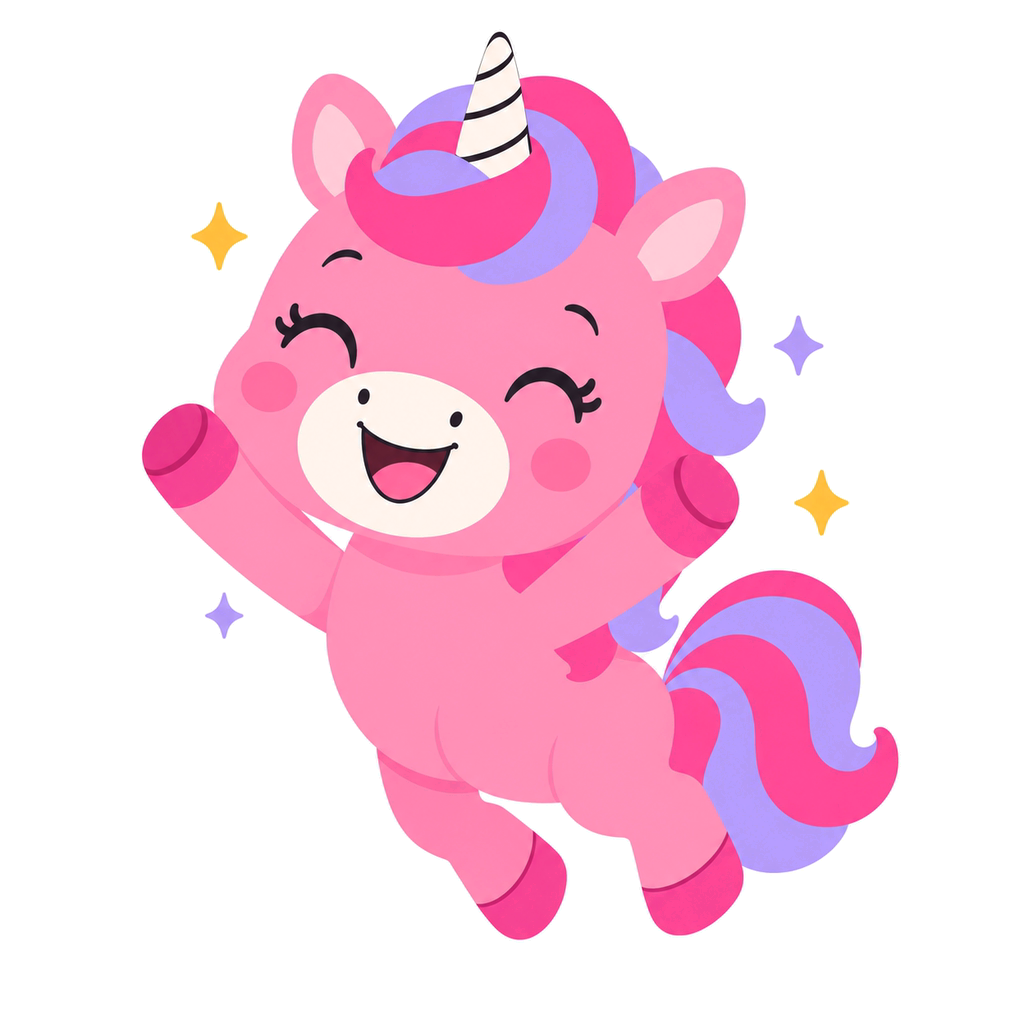
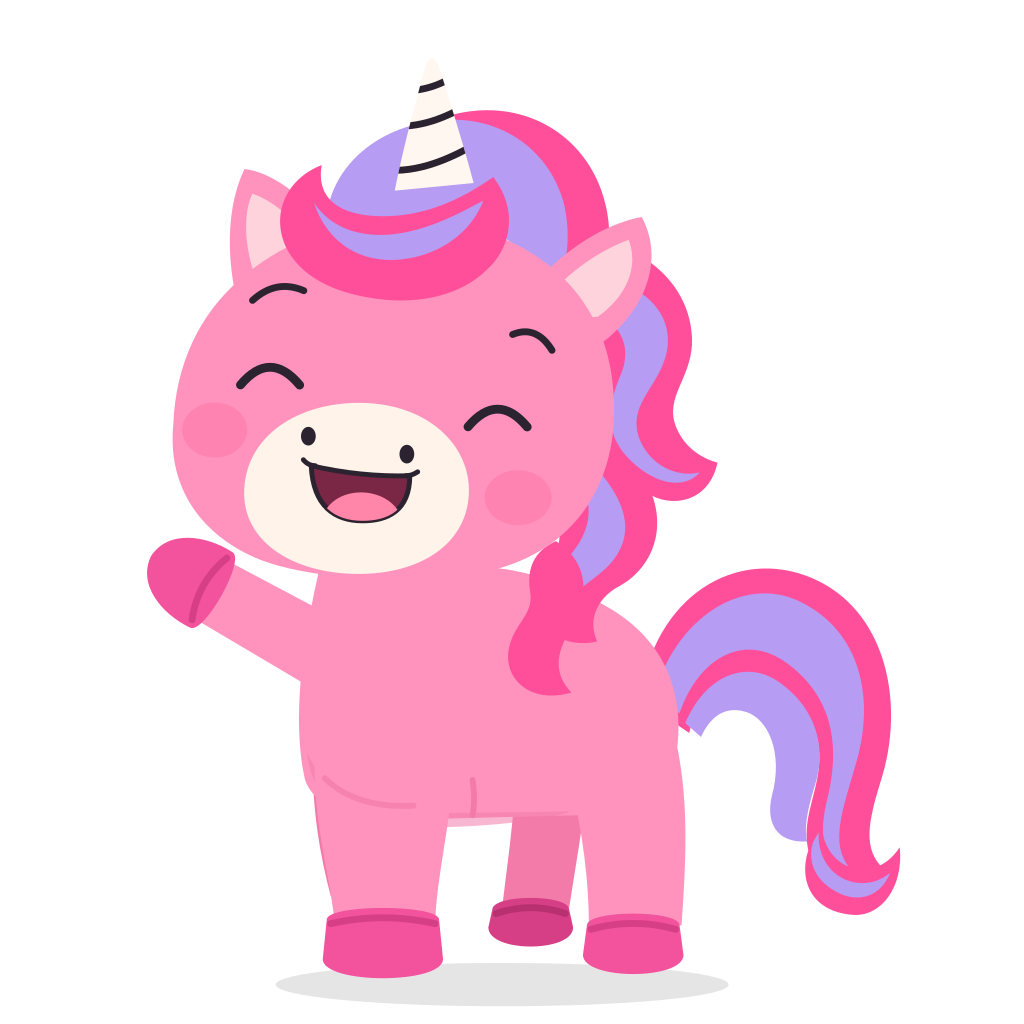
Fix Sparkle's ear and hair joints and share one character across the app

Changed region(s): [[0.125, 0.0312, 0.875, 1.0], [0.7812, 0.4688, 0.8438, 0.5312]]

diff --git a/src/sdk/puppet/Sparkle.tsx b/src/sdk/puppet/Sparkle.tsx
@@ -4,9 +4,9 @@
 //   <SparklePuppet ref={sparkle} height="min(30vh, 260px)" />
 //   sparkle.current?.play('cheer')
 //
-// Drawn in the same coordinates as the mascot art (art/source/mascot/wave.png, 1024 px square) so it can be traced and
-// compared side by side: flat fills, no outlines, a big round head with a small cream muzzle, a pink-and-lavender swirl
-// around the horn, and a wavy striped mane and tail.
+// The canonical live Sparkle. Mascot wraps this drawing; art/source/mascot/*.png are exported from it.
+// Flat fills, no outlines, a big round head with a cream muzzle, a pink-and-lavender forelock,
+// and continuous striped mane and tail silhouettes. Keep ear/hair roots overlapped inside the head.
 import { forwardRef, useId, useRef, type CSSProperties } from 'react'
 import { bell, setA, setT, show, span, spring, usePuppet, wobble, type PuppetHandle } from './core'
 
@@ -22,6 +22,8 @@ export interface SparklePuppetProps {
   flip?: boolean
   /** Turn her head a little toward something: -1 (her left/screen left) to 1 (screen right). */
   lookToward?: number
+  /** Resting expression used by the legacy Mascot adapter; actions still take precedence. */
+  mood?: 'wave' | 'cheer' | 'think'
 }
 
 type Part =
@@ -45,17 +47,8 @@ const EYES: [number, number, number][] = [
   [294, 362, -1],
   [525, 404, 1],
 ]
-// The tail is four ribbons of the same curve, each shifted down and back a little: pink and lavender stripes like the art.
-// The curve comes in two pieces joined at TAIL_JOINT so the curly end can swing after the base.
-const TAIL_JOINT: [number, number] = [166, -44]
-const TAIL_BASE = 'M-24 40 C-8 -70 106 -112 166 -44'
-const TAIL_TIP = 'M0 0 C34 40 38 104 14 150'
-const TAIL_BANDS: [number, number, string][] = [
-  [0, 0, HOT],
-  [-18, 26, LAV],
-  [-36, 50, HOT],
-  [-52, 72, LAV],
-]
+// A continuous tail with inset stripes, and an overlapping curled tip for follow-through.
+const TAIL_JOINT: [number, number] = [210, 200]
 // Motion distances were tuned in the old 440-unit drawing; this one is about 1.9 times bigger.
 const K = 1.9
 
@@ -69,7 +62,7 @@ function Hoof({ x, y, w, h, dark }: { x: number; y: number; w: number; h: number
   )
 }
 
-export const SparklePuppet = forwardRef<PuppetHandle, SparklePuppetProps>(function SparklePuppet({ height, style, pose = 'stand', flip, lookToward = 0 }, ref) {
+export const SparklePuppet = forwardRef<PuppetHandle, SparklePuppetProps>(function SparklePuppet({ height, style, pose = 'stand', flip, lookToward = 0, mood = 'wave' }, ref) {
   const clip = useId().replace(/:/g, '')
   const springs = useRef({ mane: spring(120, 8), fore: spring(160, 9), tail: spring(90, 7), tip: spring(70, 6), ear: spring(200, 10) })
   const prev = useRef({ y: 0, rot: 0 })
@@ -96,12 +89,13 @@ export const SparklePuppet = forwardRef<PuppetHandle, SparklePuppetProps>(functi
       let headY = breathe * 1.5 * K
       let arm = -61 + Math.sin(t * 1.7) * 3 // raised front hoof, resting wave
       let leg = 0
-      let happy = false
+      const resting = a ? 'wave' : mood
+      let happy = resting === 'cheer'
       let mouthOpen = 0.62 + f.mouth * 0.7
-      let closedSmile = false
-      let lookUp = 0
+      let closedSmile = resting === 'think' && !f.talking
+      let lookUp = resting === 'think' ? 0.6 : 0
       let sparkle = 0
-      let thinking = false
+      let thinking = resting === 'think'
 
       if (a === 'hop' || a === 'cheer') {
         const crouch = bell(span(q, 0, 0.22))
@@ -153,18 +147,19 @@ export const SparklePuppet = forwardRef<PuppetHandle, SparklePuppetProps>(functi
       const foreA = s.fore.step(vy * 0.02 - vr * 0.08, f.dt)
       const tailA = s.tail.step(-vy * 0.045 + Math.sin(t * 1.6) * 6, f.dt)
       const tipA = s.tip.step(tailA * 0.9 + Math.sin(t * 1.6 - 0.8) * 5, f.dt)
-      const earA = s.ear.step(-vy * 0.02, f.dt)
+      // Keep roots buried in the head even at the strongest hop/ear twitch.
+      const earA = Math.max(-10, Math.min(10, s.ear.step(-vy * 0.02, f.dt)))
       const twitch = t % 4.7 < 0.2 ? Math.sin(((t % 4.7) / 0.2) * Math.PI) * 14 : 0
 
       const [fx, fy] = FEET
       setT(p.root, `translate(0 ${-lift}) translate(${fx} ${fy}) rotate(${rot}) scale(${sx} ${sy}) translate(${-fx} ${-fy})`)
       setT(p.body, `translate(0 ${breathe * -1.5})`)
       setT(p.head, `translate(0 ${headY}) rotate(${headRot} ${NECK[0]} ${NECK[1]})`)
-      setT(p.earL, `translate(314 206) rotate(${-4 + earA - twitch * 0.4})`)
-      setT(p.earR, `translate(622 274) rotate(${4 - earA + twitch})`)
-      setT(p.forelock, `rotate(${foreA} 450 200)`)
-      setT(p.foreBack, `rotate(${foreA * 0.6} 450 200)`)
-      setT(p.maneBack, `rotate(${maneA} 610 250)`)
+      setT(p.earL, `translate(318 266) rotate(${-4 + earA - twitch * 0.4})`)
+      setT(p.earR, `translate(584 302) rotate(${4 - earA + twitch})`)
+      setT(p.forelock, `rotate(${Math.max(-9, Math.min(9, foreA))} 450 232)`)
+      setT(p.foreBack, `rotate(${Math.max(-5, Math.min(5, foreA * 0.6))} 450 232)`)
+      setT(p.maneBack, `rotate(${Math.max(-12, Math.min(12, maneA))} 610 310)`)
       setT(p.tail, `translate(700 646) rotate(${tailA})`)
       setT(p.tailTip, `translate(${TAIL_JOINT[0]} ${TAIL_JOINT[1]}) rotate(${tipA - tailA * 0.3})`)
       setT(p.arm, `translate(362 650) rotate(${arm})`)
@@ -203,6 +198,7 @@ export const SparklePuppet = forwardRef<PuppetHandle, SparklePuppetProps>(functi
 
   return (
     <svg
+      data-sparkle="puppet"
       ref={svg}
       viewBox="110 22 836 960"
       style={{ height, width: 'auto', aspectRatio: '836 / 960', overflow: 'visible', display: 'block', transform: flip ? 'scaleX(-1)' : undefined, ...style }}
@@ -221,16 +217,12 @@ export const SparklePuppet = forwardRef<PuppetHandle, SparklePuppetProps>(functi
       <g ref={part('root')}>
         {/* Tail: striped pink and lavender, in two linked pieces so the curly end swings after the base. */}
         <g ref={part('tail')} transform="translate(700 646)">
-          {TAIL_BANDS.map(([dx, dy, c], i) => (
-            <path key={i} d={TAIL_BASE} transform={`translate(${dx} ${dy})`} fill="none" stroke={c} strokeWidth="74" strokeLinecap="round" />
-          ))}
+          <path fill={HOT} d="M-30 44 C-16 -62 68 -112 144 -80 C220 -48 240 48 214 128 C202 168 196 196 218 216 C194 252 150 232 142 200 C132 164 154 136 152 98 C150 54 112 16 74 20 C46 22 28 44 20 78Z" />
+          <path fill={LAV} d="M-16 42 C4 -38 74 -84 132 -56 C194 -26 208 42 190 106 C176 156 162 190 184 216 C154 208 152 180 160 146 C176 82 160 36 118 6 C76 -24 30 0 10 58Z" />
+          <path fill={LAV} d="M16 68 C36 20 76 4 108 24 C148 50 160 92 148 130 C142 150 136 172 140 188 C108 190 98 168 104 142 C116 98 100 62 76 56 C54 50 40 64 32 82Z" />
           <g ref={part('tailTip')} transform={`translate(${TAIL_JOINT[0]} ${TAIL_JOINT[1]})`}>
-            {/* The end of the top ribbon flicks up and out. */}
-            <path fill={HOT} d="M-10 150 C20 186 72 180 88 140 C102 170 88 206 50 212 C18 216 -6 196 -10 150Z" />
-            {TAIL_BANDS.map(([dx, dy, c], i) => (
-              // Lower ribbons stop sooner, so only the top ones curl at the end.
-              <path key={i} d={TAIL_TIP} transform={`translate(${dx} ${dy})`} fill="none" stroke={c} strokeWidth={74 - i * 6} strokeLinecap="round" pathLength={1} strokeDasharray={`${1 - i * 0.2} 2`} />
-            ))}
+            <path fill={HOT} d="M-54 -44 C-60 -8 -38 16 -14 16 C4 16 16 6 24 -6 C28 34 4 66 -26 62 C-64 58 -78 30 -70 0Z" />
+            <path fill={LAV} d="M-58 -22 C-60 10 -38 30 -14 30 C-2 30 6 26 14 20 C4 44 -18 50 -38 40 C-62 28 -70 8 -64 -12Z" />
           </g>
         </g>
 
@@ -258,29 +250,30 @@ export const SparklePuppet = forwardRef<PuppetHandle, SparklePuppetProps>(functi
           <path d="M-36 -148 Q0 -162 36 -148" fill="none" stroke={HOOF_DARK} strokeWidth="7" strokeLinecap="round" />
         </g>
 
-        {/* Mane down the back of her neck and over her shoulder (swings) */}
-        <g ref={part('maneBack')}>
-          <path fill={HOT} d="M584 222 C656 208 724 262 716 336 C748 366 750 436 712 470 C730 504 712 548 666 556 C682 526 670 498 642 490 L596 300 Z" />
-          <path fill={LAV} d="M638 300 C700 304 748 352 744 410 C762 432 758 466 732 474 C738 454 728 442 712 446 C720 400 692 350 632 336 Z" />
-          <path fill={LAV} d="M596 462 C648 470 676 520 662 574 C654 602 624 618 598 608 C618 596 628 574 616 552 C604 532 588 514 596 462Z" />
-          <path fill={HOT} d="M556 534 C612 550 622 624 592 668 C576 692 544 696 522 686 C548 672 558 650 544 628 C526 604 522 564 556 534Z" />
-        </g>
         <g ref={part('head')}>
+          {/* One continuous mane silhouette; inset lavender ribbons follow the same waves.
+              The root overlaps the skull, and this whole assembly inherits the head transform. */}
+          <g ref={part('maneBack')}>
+            <path fill={HOT} d="M560 218 C650 206 724 256 722 328 C720 364 694 382 706 412 C718 442 748 448 748 448 C740 486 706 494 682 482 C696 522 678 558 648 574 C626 586 616 608 626 630 C594 638 562 618 562 590 C562 566 582 552 586 534 C594 508 572 494 578 468 C590 428 620 402 610 366 C602 334 574 314 560 218Z" />
+            <path fill={LAV} d="M616 258 C680 264 708 304 694 344 C684 374 658 390 668 422 C678 450 706 464 730 458 C712 478 680 468 656 442 C632 416 638 386 650 358 C664 324 642 298 610 292Z" />
+            <path fill={LAV} d="M614 442 C648 476 666 510 646 542 C630 568 600 572 598 600 C578 586 584 560 602 538 C624 510 620 480 604 468Z" />
+            <path fill={HOT} d="M584 528 C622 552 616 592 598 620 C584 642 582 664 600 682 C560 694 532 670 536 640 C540 612 562 604 558 580 C554 556 562 538 584 528Z" />
+          </g>
           {/* Swirl behind the horn: a lavender band over the top of her head, then pink falling down the right side. */}
           <g ref={part('foreBack')}>
             <path fill={HOT} d="M462 100 C540 70 616 110 634 186 C646 236 628 282 598 312 C600 270 590 232 566 204 C546 160 510 124 462 100Z" />
             <path fill={LAV} d="M350 208 C352 146 406 104 470 100 C530 96 578 132 592 186 C600 222 594 256 580 280 C566 240 534 214 494 206 Z" />
           </g>
-          <g ref={part('earL')} transform="translate(314 206) rotate(-4)">
-            <path fill={PINK} d="M-54 14 C-62 -40 -46 -92 -20 -114 C12 -102 42 -62 50 -4 Z" />
-            <path fill={EAR} d="M-36 0 C-42 -38 -32 -72 -18 -90 C2 -78 22 -48 26 -12 Z" />
+          <g data-sparkle-part="earL" ref={part('earL')} transform="translate(318 266) rotate(-4)">
+            <path fill={PINK} d="M-56 40 C-66 -12 -62 -78 -32 -122 C4 -112 40 -66 54 -18 L54 42 Z" />
+            <path fill={EAR} d="M-34 4 C-44 -28 -44 -72 -28 -96 C-4 -84 20 -52 28 -20 Z" />
           </g>
-          <g ref={part('earR')} transform="translate(622 274) rotate(4)">
-            <path fill={PINK} d="M-44 -6 C-24 -60 26 -100 76 -106 C92 -70 80 -18 40 26 Z" />
-            <path fill={EAR} d="M-20 -14 C-2 -52 34 -80 64 -88 C72 -60 62 -26 34 4 Z" />
+          <g data-sparkle-part="earR" ref={part('earR')} transform="translate(584 302) rotate(4)">
+            <path fill={PINK} d="M-48 34 C-42 -26 0 -96 54 -124 C86 -92 86 -42 56 4 L22 50 Z" />
+            <path fill={EAR} d="M-20 6 C-16 -32 18 -76 48 -98 C66 -74 62 -42 40 -14 Z" />
           </g>
           {/* Head */}
-          <path fill={PINK} d="M400 204 C522 190 632 252 642 372 C652 472 598 548 498 562 C430 572 332 568 280 546 C220 520 190 470 196 410 C198 350 222 298 264 262 C302 228 352 208 400 204Z" />
+          <path data-sparkle-part="scalp" fill={PINK} d="M400 204 C522 190 632 252 642 372 C652 472 598 548 498 562 C430 572 332 568 280 546 C220 520 190 470 196 410 C198 350 222 298 264 262 C302 228 352 208 400 204Z" />
           <ellipse cx="238" cy="416" rx="33" ry="28" fill={BLUSH} opacity="0.45" />
           <ellipse cx="546" cy="484" rx="34" ry="28" fill={BLUSH} opacity="0.45" />
           {/* Muzzle */}
@@ -318,13 +311,11 @@ export const SparklePuppet = forwardRef<PuppetHandle, SparklePuppetProps>(functi
             <path d="M416 106 Q456 110 504 78" fill="none" />
             <path d="M428 70 Q460 72 494 46" fill="none" />
           </g>
-          {/* Forelock swirl in front of the horn (swings): a thick pink curl from her left ear, under the horn, sweeping up
-              to the right, with a lavender band hugging it. */}
+          {/* Rounded forelock, rooted across the crown; a single lavender stripe follows
+              the pink curl instead of separate wedges that read as loose pieces of hair. */}
           <g ref={part('forelock')}>
-            <path fill={LAV} d="M436 236 C486 214 556 212 588 252 C604 272 604 296 592 312 C576 284 546 268 508 268 C476 268 452 282 436 300 Z" />
-            <path fill={HOT} d="M316 232 C300 190 330 158 374 158 C412 158 440 178 472 174 C502 170 522 150 524 124 C554 146 562 196 534 234 C504 272 444 284 392 280 C350 276 324 260 316 232Z" />
-            <path fill={LAV} d="M372 176 C406 168 442 190 474 186 C454 200 430 204 404 198 C390 194 380 186 372 176Z" />
-            <path fill="#E83E88" d="M330 222 C326 196 344 180 366 184 C352 192 348 206 356 220 Z" />
+            <path fill={HOT} d="M310 230 C294 196 310 160 346 146 C340 180 364 198 408 198 C450 198 486 182 520 158 C546 192 538 230 514 252 C488 278 446 288 402 282 C356 276 324 258 310 230Z" />
+            <path fill={LAV} d="M338 184 C360 218 404 224 448 210 C468 204 488 194 510 182 C498 214 466 238 426 242 C386 246 352 226 338 184Z" />
           </g>
           {/* Hoof under her chin while she thinks */}
           <g ref={part('chin')} style={{ display: 'none' }}>

diff --git a/tests/sparkle.spec.ts b/tests/sparkle.spec.ts
@@ -1,0 +1,69 @@
+import { expect, test } from '@playwright/test'
+
+// Menus and older games must share the country puppet, including its three resting expressions.
+test('all legacy Mascot poses use the shared Sparkle and unique mouth clips', async ({ page }) => {
+  await page.goto('./#/playground')
+  await page.getByRole('button', { name: /let's play/i }).click()
+  const mascots = page.locator('[data-sparkle="puppet"]')
+  expect(await mascots.count()).toBeGreaterThanOrEqual(3)
+  expect(await page.locator('img[alt="Sparkle the unicorn"]').count()).toBe(0)
+  const ids = await mascots.locator('clipPath').evaluateAll((clips) => clips.map((c) => c.id))
+  expect(new Set(ids).size).toBe(ids.length)
+})
+
+// Check real filled geometry in every animation frame, rather than just the transform strings.
+// The visible base of each ear must stay inside the skull when the head/ears rotate and spring.
+for (const id of ['sparkle', 'sparkle-snorkel']) {
+  test(`${id}: ear roots stay attached across three rounds of every action`, async ({ page }) => {
+    test.setTimeout(60_000)
+    await page.goto(`./#/world/puppets/${id}`)
+    await page.getByRole('button', { name: /let's play/i }).click()
+    await page.waitForFunction((id) => !!window.__puppets?.[id], id)
+    const result = await page.evaluate(async (id) => {
+      const puppet = document.querySelector(`[data-puppet="${id}"] svg`)!
+      const scalp = puppet.querySelector('[data-sparkle-part="scalp"]') as SVGGeometryElement
+      const ears = ['earL', 'earR'].map((name) => puppet.querySelector(`[data-sparkle-part="${name}"]`) as SVGGraphicsElement)
+      let samples = 0
+      const detached: string[] = []
+      let action = 'idle'
+      let running = true
+      const inspect = () => {
+        // Sample the center and both sides of the broad ear base, in scalp coordinates.
+        for (const [i, ear] of ears.entries()) {
+          const intoScalp = scalp.getCTM()!.inverse().multiply(ear.getCTM()!)
+          for (const x of [-12, 0, 12]) {
+            const point = new DOMPoint(x, 25).matrixTransform(intoScalp)
+            if (!scalp.isPointInFill(point)) detached.push(`${action}: ear ${i}, base ${x}`)
+          }
+        }
+        samples++
+        if (running) requestAnimationFrame(inspect)
+      }
+      inspect()
+      for (let round = 0; round < 3; round++) {
+        for (action of ['wave', 'cheer', 'hop', 'nod', 'think', 'dance', 'wiggle']) {
+          await window.__puppets![id]!.play(action)
+        }
+      }
+      running = false
+      return { samples, detached: detached.slice(0, 10) }
+    }, id)
+    expect(result.samples).toBeGreaterThan(100)
+    expect(result.detached).toEqual([])
+  })
+}
+
+test('Sparkle fits the narrow puppet lab and short splash screen', async ({ page }) => {
+  await page.setViewportSize({ width: 844, height: 390 })
+  await page.goto('./')
+  await page.waitForTimeout(900)
+  const splash = (await page.locator('[data-sparkle="puppet"]').boundingBox())!
+  expect(splash.y).toBeGreaterThanOrEqual(0)
+  expect(splash.y + splash.height).toBeLessThanOrEqual(390)
+  await page.setViewportSize({ width: 390, height: 844 })
+  await page.getByRole('button', { name: /let's play/i }).click()
+  await page.goto('./#/world/puppets/sparkle')
+  const lab = (await page.locator('[data-sparkle="puppet"]').boundingBox())!
+  expect(lab.x).toBeGreaterThanOrEqual(0)
+  expect(lab.x + lab.width).toBeLessThanOrEqual(390)
+})

diff --git a/src/world/PuppetLab.tsx b/src/world/PuppetLab.tsx
@@ -34,6 +34,7 @@ export function PuppetLab({ only }: { only?: string }) {
 function Card({ entry, big }: { entry: PuppetEntry; big: boolean }) {
   const ref = useRef<PuppetHandle>(null)
   const [line, setLine] = useState(0)
+  const height = big ? (entry.id.startsWith('sparkle') ? 'min(60vh, 640px, 84vw)' : 'min(60vh, 640px)') : '300px'
   useEffect(() => {
     ;(window.__puppets ??= {})[entry.id] = ref.current
     return () => {
@@ -44,7 +45,7 @@ function Card({ entry, big }: { entry: PuppetEntry; big: boolean }) {
   return (
     <div data-puppet={entry.id} style={{ background: 'rgba(255,255,255,0.6)', borderRadius: 28, padding: 16, display: 'flex', flexDirection: 'column', alignItems: 'center', gap: 10, width: big ? 'min(92vw, 900px)' : 360 }}>
       <b style={{ fontSize: 24 }}>{entry.name}</b>
-      <div style={{ height: big ? 'min(60vh, 640px)' : 300, display: 'flex', alignItems: 'flex-end', justifyContent: 'center' }}>{entry.render(ref, big ? 'min(60vh, 640px)' : '300px')}</div>
+      <div style={{ height, display: 'flex', alignItems: 'flex-end', justifyContent: 'center' }}>{entry.render(ref, height)}</div>
       <div style={{ display: 'flex', flexWrap: 'wrap', gap: 8, justifyContent: 'center' }}>
         {entry.actions.map((a) => (
           <button key={a} aria-label={`${entry.id} ${a}`} onClick={() => (sounds.pop(), void ref.current?.play(a))} style={{ padding: '10px 16px', borderRadius: 999, background: 'var(--pink)', color: '#fff', fontWeight: 700 }}>

diff --git a/src/sdk/components/Mascot.tsx b/src/sdk/components/Mascot.tsx
@@ -1,22 +1,19 @@
 import { motion } from 'motion/react'
-import wave from '../../assets/mascot/wave.webp'
-import cheer from '../../assets/mascot/cheer.webp'
-import think from '../../assets/mascot/think.webp'
+import { SparklePuppet } from '../puppet/Sparkle'
 
-const POSES = { wave, cheer, think }
-export type MascotPose = keyof typeof POSES
+export type MascotPose = 'wave' | 'cheer' | 'think'
 
-/** Sparkle the unicorn, the app's friendly guide. */
+/** Backwards-compatible square layout, with the same living Sparkle used in every country.
+ * Keep character artwork in SparklePuppet so menus, old games and new games cannot drift apart. */
 export function Mascot({ pose = 'wave', size = 220, bounce = true }: { pose?: MascotPose; size?: number; bounce?: boolean }) {
   return (
-    <motion.img
-      key={pose}
-      src={POSES[pose]}
-      alt="Sparkle the unicorn"
+    <motion.div
       initial={{ scale: 0.6, opacity: 0 }}
       animate={bounce ? { scale: 1, opacity: 1, y: [0, -12, 0] } : { scale: 1, opacity: 1 }}
       transition={bounce ? { y: { repeat: Infinity, duration: 1.8, ease: 'easeInOut' }, default: { type: 'spring', bounce: 0.5 } } : { type: 'spring', bounce: 0.5 }}
-      style={{ width: size, height: size, objectFit: 'contain' }}
-    />
+      style={{ width: size, height: size, minHeight: 0, display: 'flex', alignItems: 'center', justifyContent: 'center' }}
+    >
+      <SparklePuppet height="100%" mood={pose} />
+    </motion.div>
   )
 }

diff --git a/docs/sparkle.md b/docs/sparkle.md
@@ -1,0 +1,52 @@
+# Sparkle's shared character
+
+![Previous and corrected shared puppet](sparkle-before-after.png)
+
+`src/sdk/puppet/Sparkle.tsx` is the single live drawing. All four countries use it directly
+or through shared story/stamp components. The older `Mascot` API wraps it for the shell,
+passport, video controls, trophy ceremony and unicorn tea party. Its square `size` layout
+and `wave` / `cheer` / `think` expressions remain compatible with existing callers.
+New games should use `SparklePuppet` and its awaitable actions.
+
+Keep her pink body, cream muzzle, striped horn, large dark eyes and pink/lavender hair.
+This is vector artwork: edit the shared SVG instead of generating another live character.
+
+## Joints and hair
+
+- Ear pivots sit inside the skull at `(318, 266)` and `(584, 302)`. Broad ear bases overlap
+  the head behind its silhouette. Rotate at these roots; never move the ears alongside the head.
+- Mane, crown, horn, forelock and ears all belong to the head transform. Hair can have
+  spring follow-through within that group. Clamp spring angles so the overlap stays hidden.
+- The mane and tail each have continuous silhouettes with inset lavender bands. Avoid
+  assembling hair from disconnected wedges or stacks of thick round-ended strokes.
+- Mirroring, turning toward a friend and snorkel equipment use the same drawing.
+- Mouth clip IDs are unique per instance so multiple Sparkles can speak without interfering.
+
+## Review and references
+
+Build and start a dedicated preview, then run the Safari review:
+
+```sh
+npm run typecheck
+npm run build
+npm run preview -- --port 4185 --strictPort
+# In another terminal:
+node scripts/qa-sparkle.mjs --export-reference
+npm run test
+```
+
+`qa-output/sparkle/` contains screenshots at four iPad and three iPhone sizes, mirrored
+and snorkel views, representative country scenes and filmstrips of all seven actions,
+repeated three times. Inspect ear connections, hair joins, silhouette, expression and
+scene fit. The lab can scroll on short phones; actual play scenes must fit their screens.
+The script accepts `--base=` if the dedicated preview uses another port.
+
+`tests/sparkle.spec.ts` checks the menu adapter, clip isolation and filled ear-base geometry
+through three repetitions of every action. To run that test in Safari, use Playwright's
+WebKit browser option. Automated geometry checks supplement visual inspection.
+
+The export option refreshes the three tracked PNGs in `art/source/mascot/` and their
+WebP counterparts in `src/assets/mascot/` from the live puppet's resting poses. Generated
+cover/background illustrations may contain a painted Sparkle; they are illustrations,
+not alternative live components. Use the refreshed reference for new illustrations.
+Changing the shared SVG does not repaint characters embedded in existing scene artwork.

diff --git a/AGENTS.md b/AGENTS.md
@@ -112,6 +112,12 @@ export default function Game({ onWin, setProgress }: GameProps) { ... }
 
 ## Characters that feel alive
 
+**One Sparkle everywhere:** `src/sdk/puppet/Sparkle.tsx` owns her design. Use the SDK
+`SparklePuppet` (or the square `Mascot` adapter) in games, countries and menus; never
+copy her SVG or import an old pose image as a live character. The reference pictures
+in `art/source/mascot/` are exported from that puppet for consistent generated covers.
+See `docs/sparkle.md` for attachment rules, reference exports and visual QA.
+
 A character is a **puppet**: layered SVG whose parts (ears, eyes, mouth, arms, tail) are separate `<g>` groups that
 `usePuppet` moves every frame. That is what makes it feel alive:
 - **Idle life** comes free: breathing, random blinks, eyes that follow her finger (`f.look`), and a mouth that opens with
@@ -207,7 +213,7 @@ try everything live at `#/playground` (run `npm run dev`).
 | `<SayButton text>` | 🔊 hear-it-again button. |
 | `<Scene bg>` | Full-screen background image wrapper. |
 | `<StarProgress>`, `<Trophy>` | Used by the shell; available if useful. |
-| `<SparklePuppet ref pose? height>` | Live Sparkle: `play('wave' \| 'cheer' \| 'hop' \| 'nod' \| 'think' \| 'dance' \| 'wiggle')`. Prefer it over `<Mascot>`. |
+| `<SparklePuppet ref pose? height>` | Live Sparkle: `play('wave' \| 'cheer' \| 'hop' \| 'nod' \| 'think' \| 'dance' \| 'wiggle')`. Prefer it over `<Mascot>`. Both use the same canonical drawing. |
 | `<Buddy img voice height ref>` | Brings a flat sprite to life: `play('jump' \| 'dance' \| 'wiggle' \| 'cheer' \| 'nod')`. |
 | `usePuppet`, `spring`, `setT`, `setA`, `show`, `bell`, `span`, `wobble`, `smooth` | Build your own puppet (see "Characters that feel alive"). |
 | `Line`, `lineText`, `speechLevel(voice)` | A spoken line (`string` or `{ text, voice }`), its text, how loud a voice is now. |

diff --git a/art/STYLE.md b/art/STYLE.md
@@ -39,8 +39,14 @@ background before committing.
 
 ## Mascot: Sparkle 🦄
 A chubby kawaii pink unicorn: pink #FF8FB8 body, cream muzzle, hot-pink + lavender mane and tail,
-white/ink striped horn, big dark eyes with tiny lashes, blush cheeks. Existing poses live in
-`src/assets/mascot/` (wave, cheer, think) and are available through `<Mascot pose=... />`.
+white/ink striped horn, big dark eyes with tiny lashes, blush cheeks. The canonical design lives in
+`src/sdk/puppet/Sparkle.tsx`. Use `<SparklePuppet>` for every live character;
+`<Mascot pose=... />` uses that same puppet with a square layout and resting expression.
+Do not copy Sparkle SVG paths into a game or draw a separate live version.
+The PNG references in `art/source/mascot/` and WebP copies in `src/assets/mascot/`
+(wave, cheer, think) are exports of this puppet, not independently generated characters.
+After changing her design, refresh them with `node scripts/qa-sparkle.mjs --export-reference`
+against a current production preview (see the command at the top of that script).
 Always attach `art/source/mascot/wave.png` when drawing Sparkle in a new pose or scene.
 
 ## Pipeline
